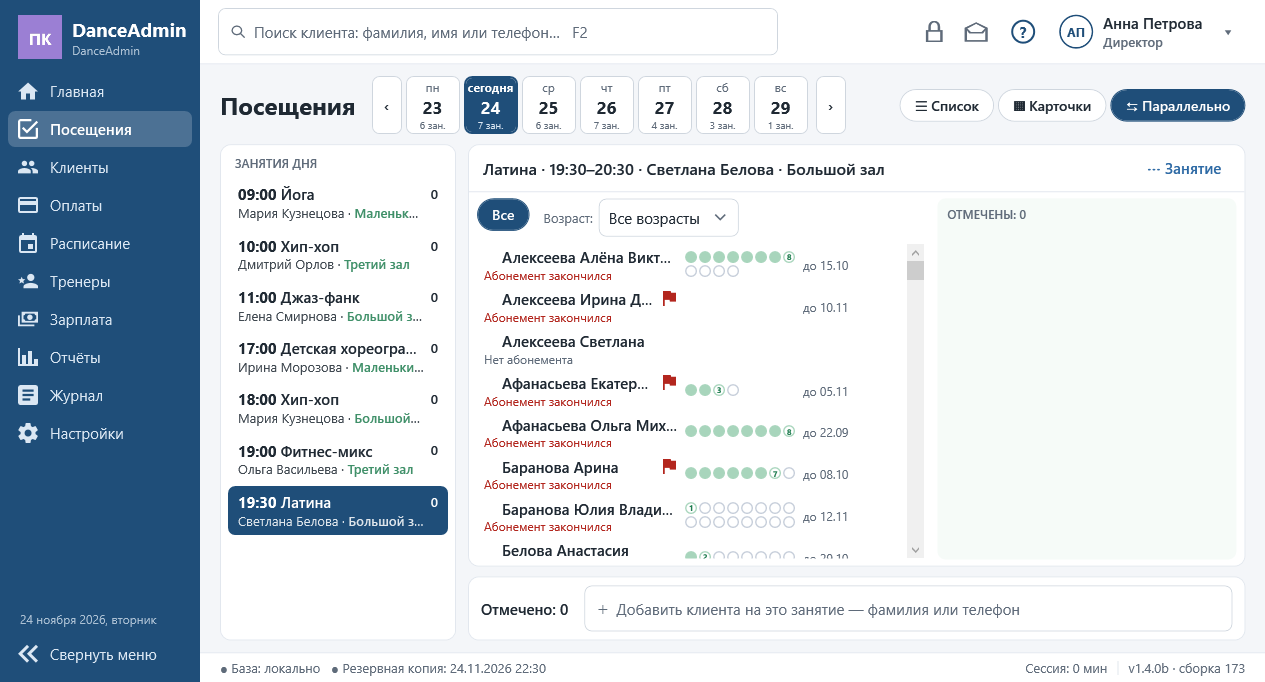
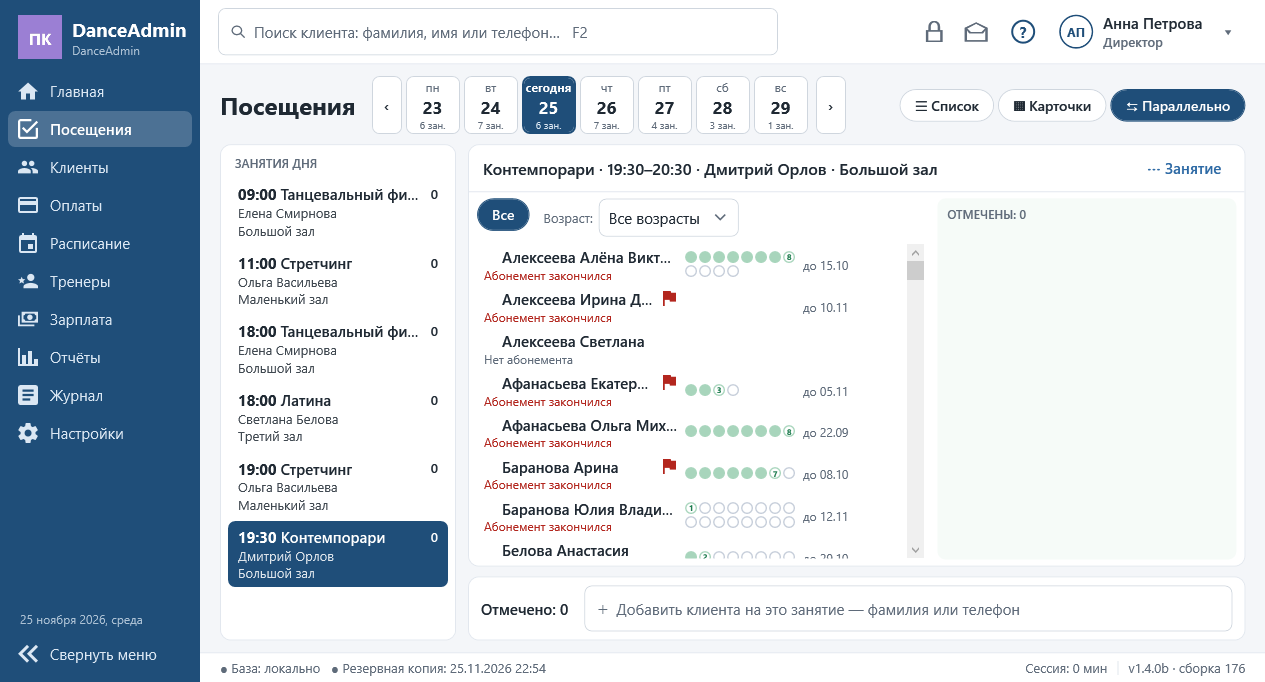
v1.4.0-beta.176

diff --git a/RELEASE_NOTES.md b/RELEASE_NOTES.md
@@ -1,29 +1,22 @@
-# DanceAdmin 1.4.0b (сборка 173) — бета
+# DanceAdmin 1.4.0b (сборка 176) — бета
 
 Предварительный выпуск (Pre-release). Последний обычный выпуск — 1.3.0 (сборка 168): если нужна проверенная версия, берите его.
 
 **Скачать:**
-- `DanceAdmin_Setup_1.4.0b-173.exe` — установщик (рекомендуется);
-- `DanceAdmin_1.4.0b-173_portable.zip` — переносная версия, без установки (exe, лицензия, руководство).
+- `DanceAdmin_Setup_1.4.0b-176.exe` — установщик (рекомендуется);
+- `DanceAdmin_1.4.0b-176_portable.zip` — переносная версия, без установки (exe, лицензия, руководство).
 
 Windows 10/11 x64, .NET внутри. Данные — в `C:\ProgramData\DanceAdmin\`. Установка поверх прежней версии сохраняет базу (перед обновлением делается резервная копия).
 
-## Что нового по сравнению с бетой 170
-- **Снимок рабочего компьютера:** рабочий компьютер сохраняет полную копию в папку (удобно — в облаке) при закрытии смены, при выходе и раз в час; на другом компьютере её открывают только для просмотра — без перезапуска и пароля, новый снимок открывается сам. Кнопка «Смотреть рабочий снимок» вверху, «Снимок: ЧЧ:ММ ⟳» в строке внизу — сохранить снимок сейчас может любой сотрудник. Смотреть — директор и роли с новым правом «Снимок рабочего компьютера».
-- **Расписание:** изменение шаблона с будущей даты — до неё действует прежнее расписание; в журнале видно, с какой даты новое и что поменялось.
-- **Экспорт и импорт** переносят «Правила и ставки» и минимальную оплату тренеру; архивные залы и группы без галочки «вместе с архивными» не выгружаются.
-- **Посещения:** в «Занятиях дня» виден зал.
-- **Настройки:** минимум тренеру и минуты отметки пустые и неактивные, когда выключены; число направлений; неактивные группы абонементов — серым; «типов: N» у групп — столбиком, в подсказке типы с новой строки.
-- Строка состояния внизу — все надписи на одной линии, с разделителями.
-
-## Исправления
-- Возврат с «Уменьшить число занятий на» принимает только число от 1 до оставшихся занятий (отрицательное число добавляло занятия).
-- В группе клиентов с ценами больше не появляется пустая строка цены.
-- В старых отчётах смены способ оплаты показывается в колонке «Способ», а не в примечании.
-- Правка шаблона «с сегодня» больше не сдвигает дату начала шаблона.
+## Что нового по сравнению с бетой 173
+- **Руководство администратора:** окно почти на всю высоту экрана, слева — оглавление: щелчок по разделу переходит к нему, текущий раздел подсвечен.
+- **Снимок рабочего компьютера:** снимки нескольких рабочих компьютеров в одной папке не смешиваются — в имени файла название компьютера (поле «Название этого компьютера»), у каждого хранятся свои 3 последних; если компьютеров несколько, на другом компьютере можно выбрать, чей снимок смотреть. Кнопка «ⓘ Инструкция» в «Настройки → Расширенные».
+- **Справочники:** строки групп абонементов, залов, групп клиентов и возрастных категорий подсвечиваются при наведении, щелчок — изменить; в «Группах клиентов» «клиентов: N» и «добавить в группу» — ровными столбиками.
+- **Посещения → «Занятия дня»:** зал — строкой под тренером, зелёным — только «● сейчас».
 
 ## Важно
 - Бета приходит в программе только тем, у кого в «О программе» отмечено «Сообщать о бета-версиях».
+- Снимки, сохранённые версией 173 (без названия компьютера), удаляются при первом новом сохранении — это нормально.
 - Делайте резервные копии (Настройки → Резервные копии).
 - Программа не подписана сертификатом: Windows SmartScreen покажет предупреждение — «Подробнее» → «Выполнить в любом случае».
 - Об ошибках и пожеланиях — в Issues.

diff --git a/CHANGELOG.md b/CHANGELOG.md
@@ -2,6 +2,23 @@
 
 Формат версий: `Major.Minor.Patch.Build` (ТЗ §24).
 
+## 1.4.0b, сборка 176 — 25.11.2026
+
+- **Руководство администратора:** окно открывается на 90% высоты экрана (по рабочей области, шире — до 1100). Слева — панель «Оглавление» с разделами 1…16 (`GuideWindow.BuildToc`): щелчок прокручивает руководство к заголовку раздела, при прокрутке подсвечивается текущий раздел (в самом конце — последний видимый). Названия разделов в оглавлении — обычным регистром («1. Начало работы»).
+- Помощник: «содержание», «оглавление» находят тему «Как открыть и свернуть это руководство».
+
+## 1.4.0b, сборка 175 — 25.11.2026
+
+- **Справочники:** строки «Групп абонементов», «Залов» (и архива), «Групп клиентов», «Возрастных категорий» подсвечиваются при наведении (`HoverRow`, как «Направления»), щелчок — изменить. «Группы клиентов»: «клиентов: N» и «добавить в группу» — ровными столбиками (`SharedSizeGroup`), «добавить в группу» — кнопка вместо ссылки в тексте.
+- **«Резервные копии» → «Снимок рабочего компьютера»:** новая подсказка ⓘ — без «директора» и «дома», «на другом компьютере».
+- **Руководство администратора** описывает только возможности и как работает программа: убраны заметки об исправлениях и списки «Что нового» по сборкам (§15 — тема «Что нового в версии» со ссылкой на окно обновления и CHANGELOG).
+
+## 1.4.0b, сборка 174 — 25.11.2026
+
+- **Снимки нескольких компьютеров в одной папке:** имя файла `DanceAdmin_снимок_<название>_<номер>_ГГГГ-ММ-ДД_ЧЧ-ММ.zip` — название компьютера (`snapshot.pc_name`, поле «Название этого компьютера» на рабочем компьютере, по умолчанию имя компьютера Windows) и постоянный номер установки (`snapshot.pc_id` = «ИмяWindows|6 знаков», база перенесена на другой компьютер — номер новый). Удаляются только свои старые снимки (по 3 у каждого) и файлы до 174 без номера. Компьютер для просмотра запоминает компьютер выбранного файла (`snapshot.source`), открывает и обновляет только его снимки (`SnapshotService.Newest(folder, source)`; выбранного нет, а в папке один компьютер — его), список «Чей снимок смотреть», если компьютеров несколько; в жёлтой полосе — «Снимок компьютера «Студия» от …».
+- **«ⓘ Инструкция»** у карточки «Снимок рабочего компьютера» в «Расширенных» (`SnapshotGuideWindow`, текст — `docs/Инструкция_Снимок_рабочего_компьютера.txt`, встроен в программу).
+- **Посещения → «Занятия дня»:** зал — отдельной строкой под тренером, обычным цветом; зелёным — только «● сейчас» (на выбранном занятии — белым).
+
 ## 1.4.0b, сборка 173 — 24.11.2026
 
 Исправления по отчёту тестера (`CODEX_TESTER_REPORT_BUILD_172.md`):
